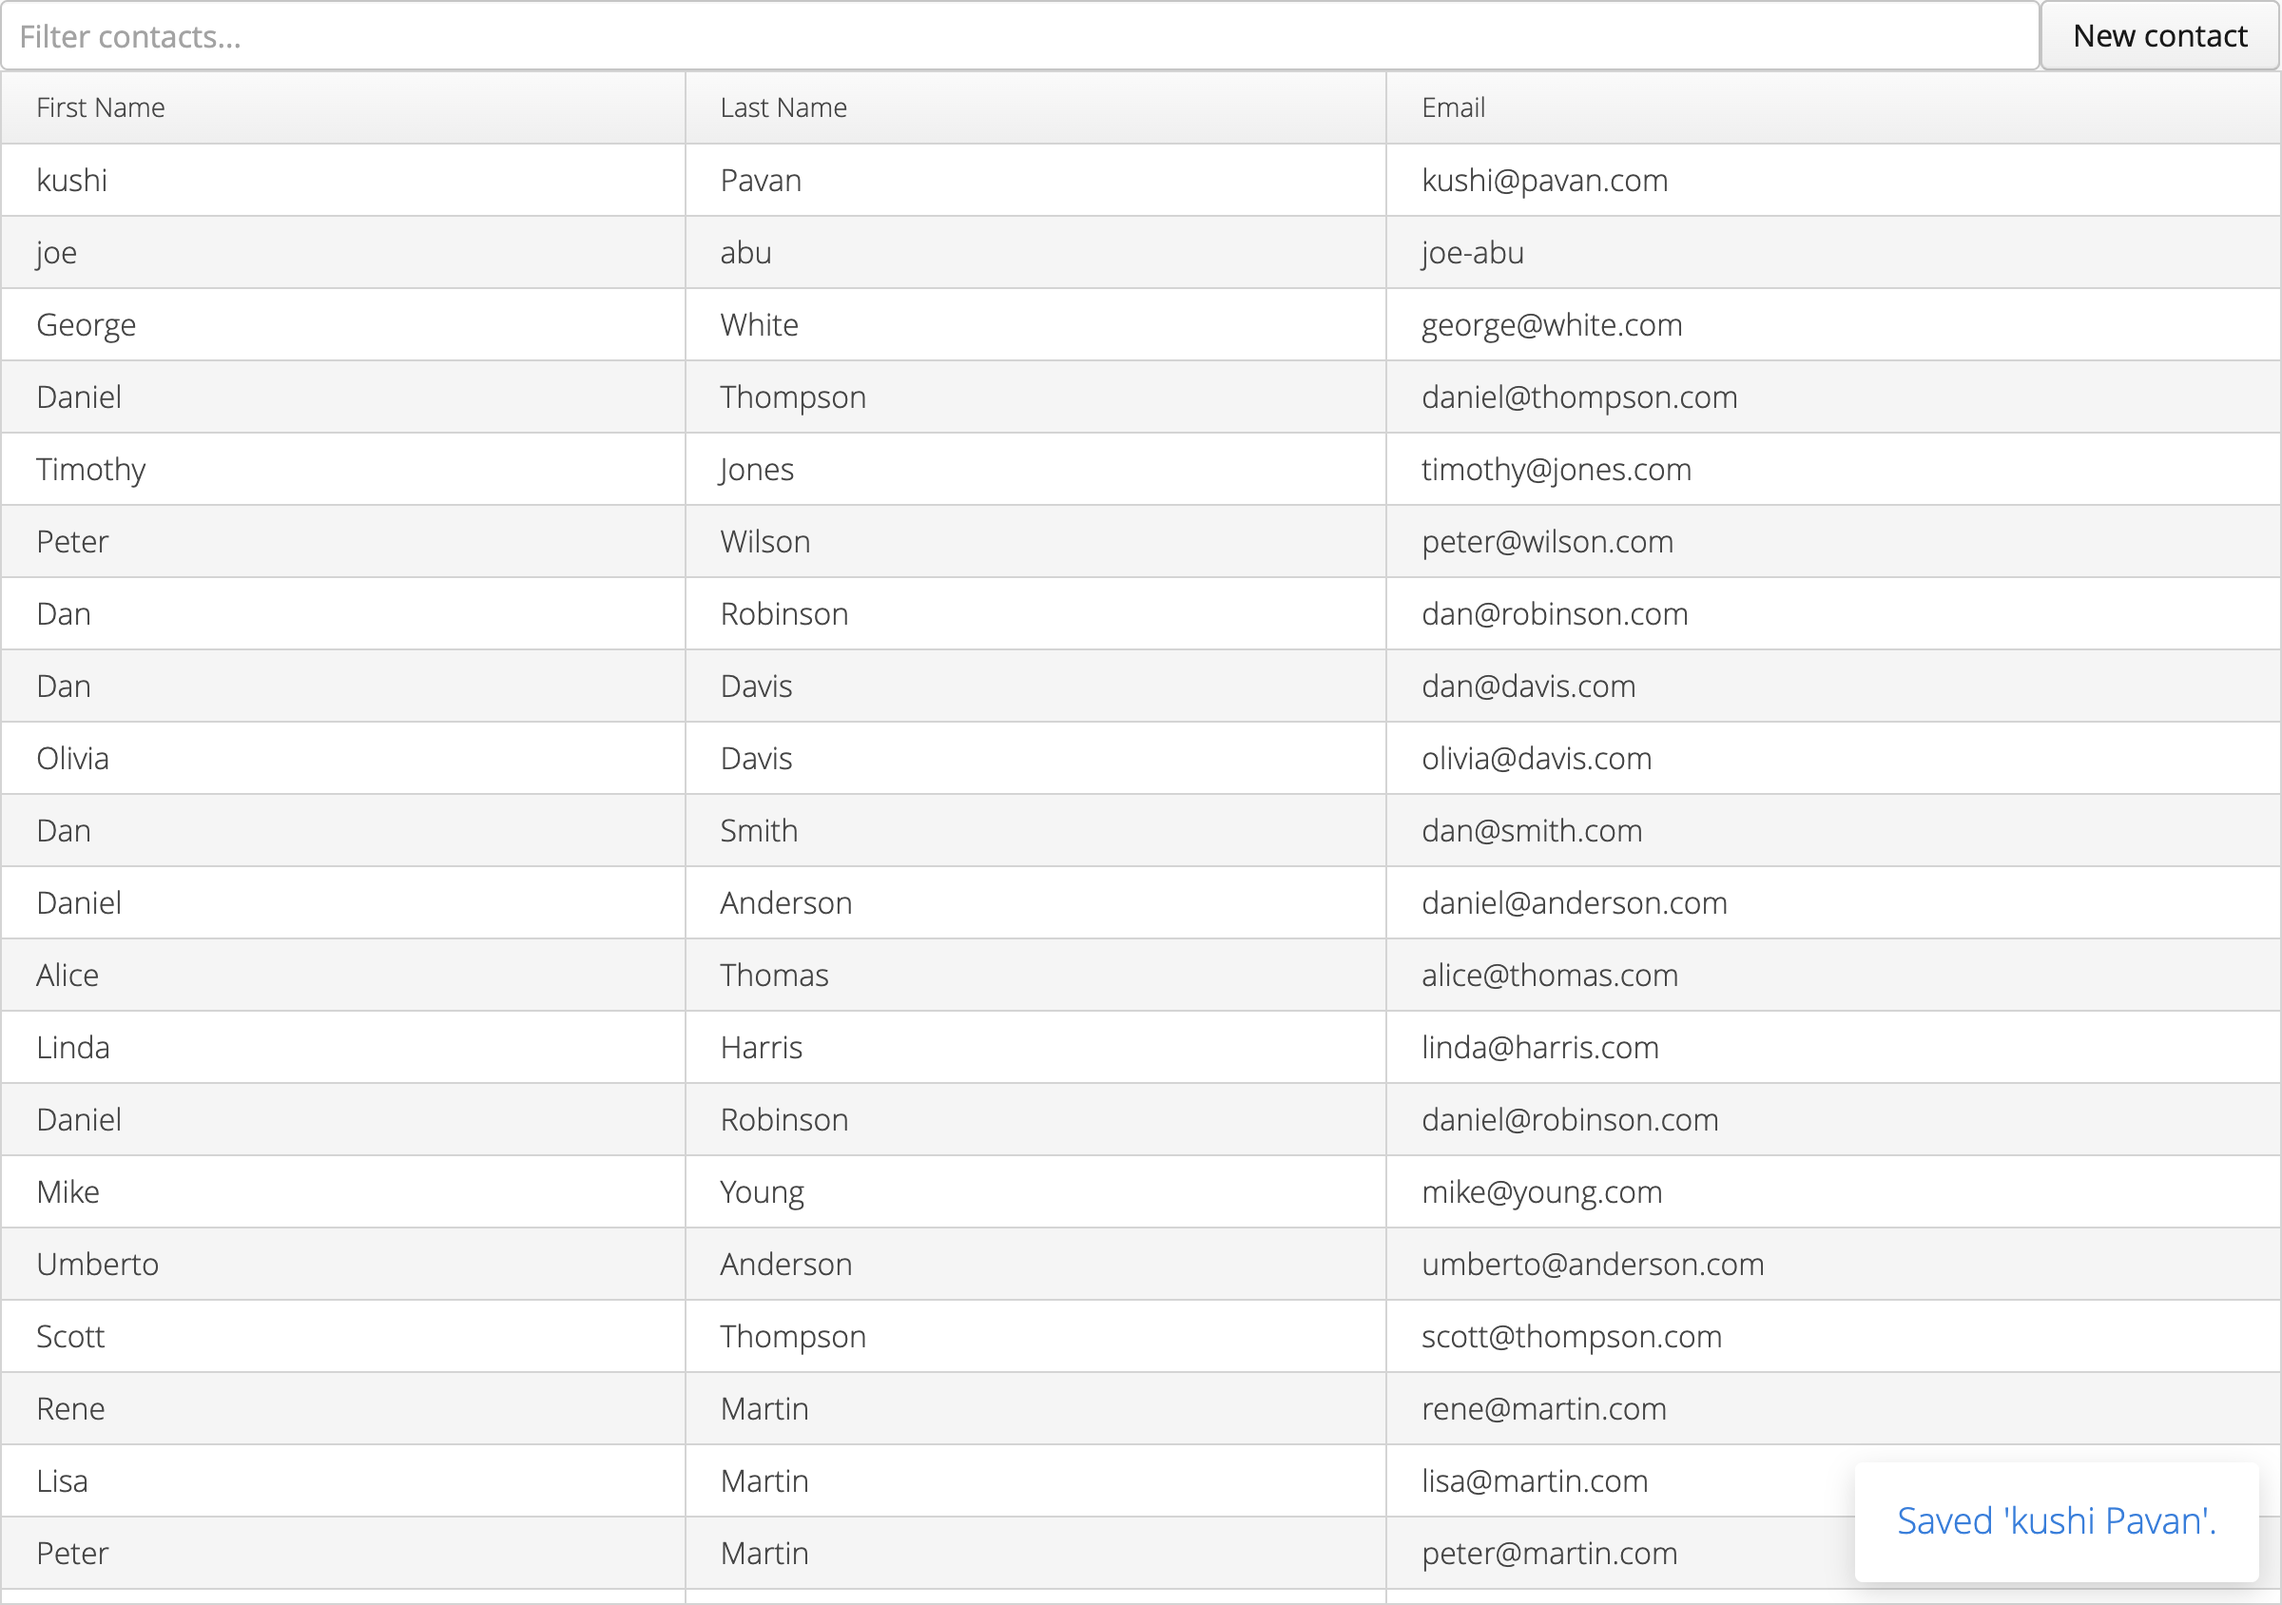
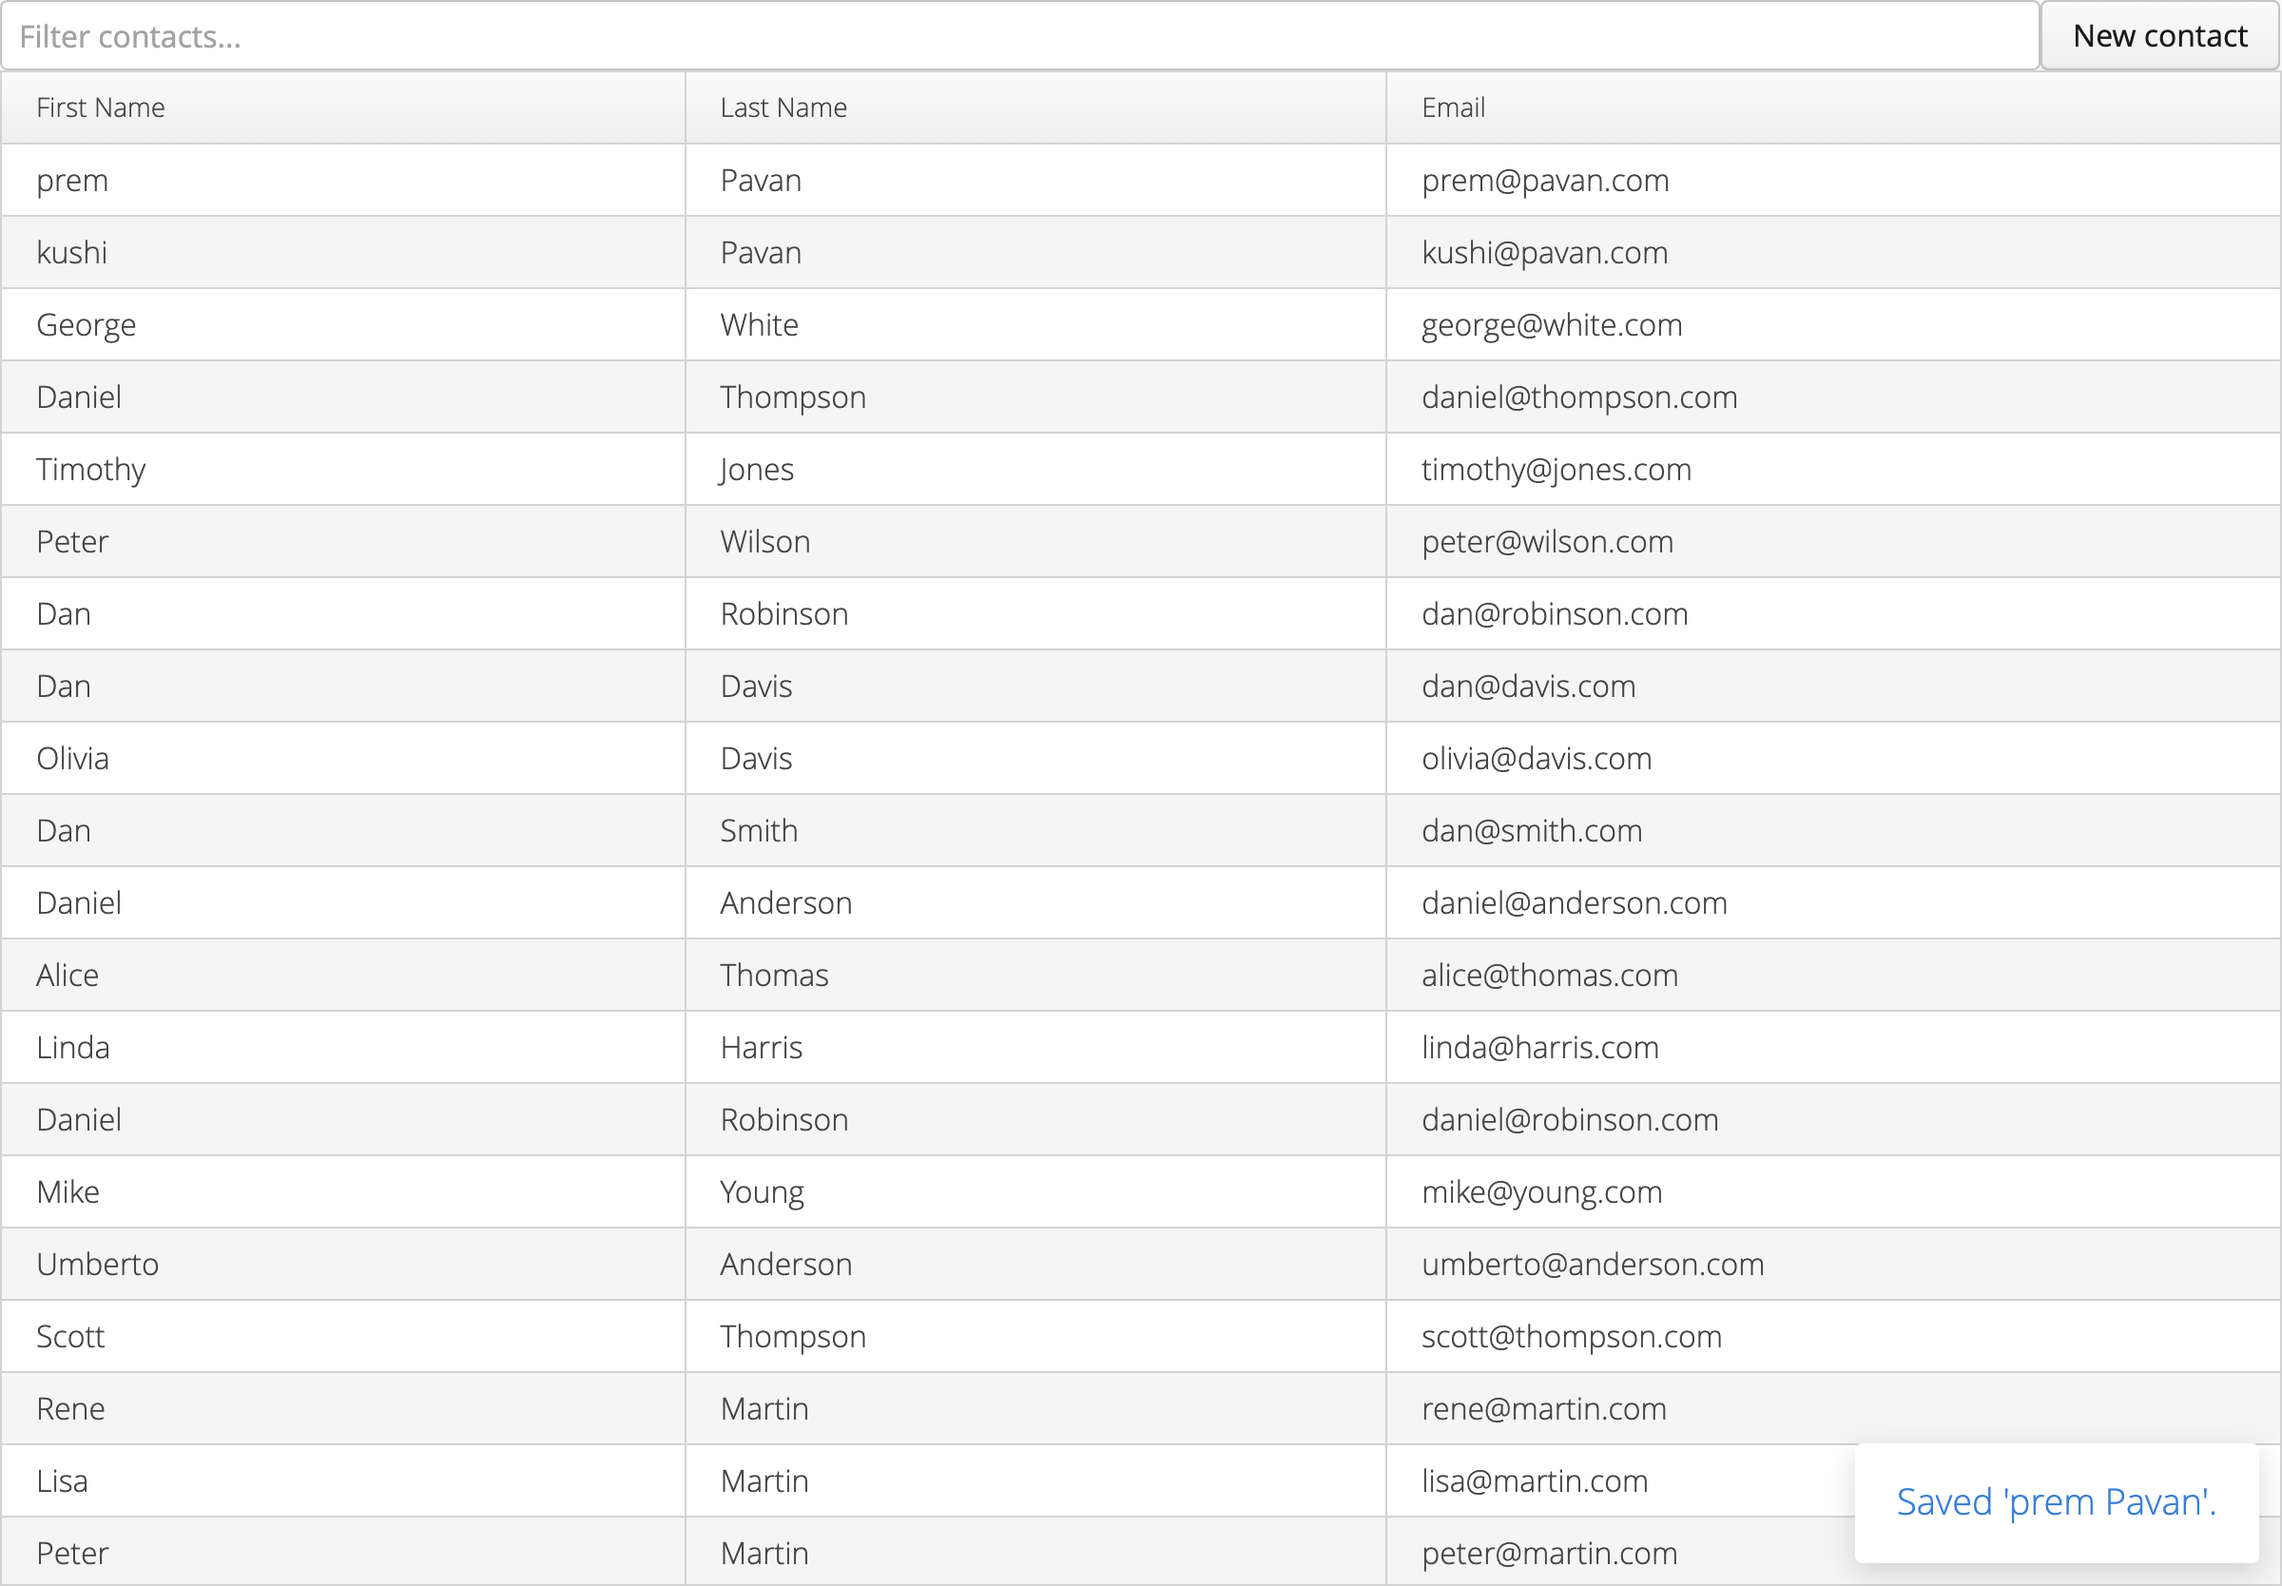
updated tomcat server

diff --git a/src/main/java/org/test/App.java b/src/main/java/org/test/App.java
@@ -7,6 +7,7 @@ import org.openqa.selenium.TakesScreenshot;
 import org.openqa.selenium.WebDriver;
 import org.openqa.selenium.WebElement;
 import org.openqa.selenium.chrome.ChromeDriver;
+import org.openqa.selenium.chrome.ChromeOptions;
 
 import java.io.File;
 import java.io.IOException;
@@ -28,18 +29,20 @@ public class App
         System.out.println("Sum is: " + sum);
         System.out.println("Diff is : " + diff);
 
-        WebDriver driver = new ChromeDriver();
-
+        // WebDriver driver = new ChromeDriver();
+        ChromeOptions options = new ChromeOptions();
+        options.addArguments("--headless");
+        WebDriver driver = new ChromeDriver(options);
         //open URL
-        driver.get("http://107.23.199.119:8080/addressbook-2.0/");
+        driver.get("http://52.23.251.108:8080/addressbook-2.0/");
         driver.manage().timeouts().implicitlyWait(Duration.ofMillis(500));
         //locate contact button and click
         driver.findElement(By.xpath("/html/body/div[1]/div/div[2]/div/div/div/div/div[1]/div/div/div[2]/div")).click();
         Thread.sleep(2000);
-        driver.findElement(By.id("gwt-uid-5")).sendKeys("kushi");
+        driver.findElement(By.id("gwt-uid-5")).sendKeys("prem");
         driver.findElement(By.id("gwt-uid-7")).sendKeys("Pavan");
         driver.findElement(By.id("gwt-uid-9")).sendKeys("9999999");
-        driver.findElement(By.id("gwt-uid-11")).sendKeys("kushi@pavan.com");
+        driver.findElement(By.id("gwt-uid-11")).sendKeys("prem@pavan.com");
         driver.findElement(By.id("gwt-uid-13")).sendKeys("06/01/2020,");
         driver.findElement(By.xpath("/html/body/div[1]/div/div[2]/div/div[2]/div/table/tbody/tr[1]/td[3]/div/div[1]/div")).click();
         Thread.sleep(4000);
